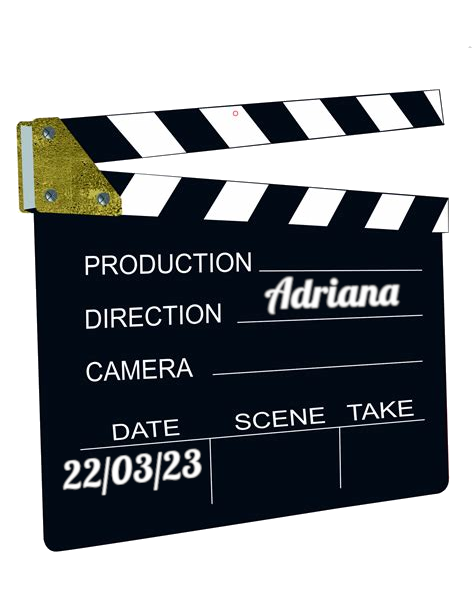
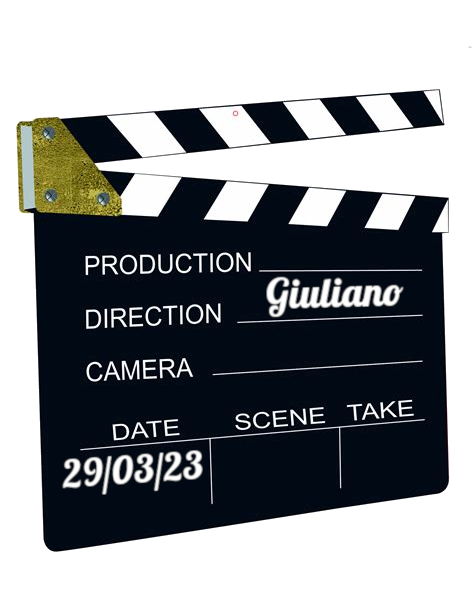
Merc 29 marzo - Giuliano - Stella Cadente

Changed region(s): [[0.5612, 0.4332, 0.8565, 0.5261], [0.1181, 0.7117, 0.443, 0.8046]]

diff --git a/index.html b/index.html
@@ -34,10 +34,10 @@
 
 <br /><br />
 
-<h1>Mercoled&igrave; 22 marzo 2023</h1>
+<h1>Mercoled&igrave; 29 marzo 2023</h1>
 <h2>Alle 20:30 in Via Nizza, 72</h2>
 <img src="img/ciak.png" class="locandina"/>
-<h2>Tema: <i>Stella cadente</i> - Selezionatrice: <i>Adriana</i></h2>
+<h2>Tema: <i>Stella cadente</i> - Selezionatore: <i>Giuliano</i></h2>
 
 <br /><br />
 
@@ -45,14 +45,14 @@
 
 <br /><br />
 
-<h1>Mercoled&igrave; 15 marzo 2023</h1>
+<h1>Mercoled&igrave; 22 marzo 2023</h1>
 <p class="mtitle">
-<a href="https://www.imdb.com/title/tt0125664" target="_blank">Man on the Moon</a>
+<a href="https://www.imdb.com/title/tt8893974" target="_blank">Passing</a>
 </p>
 
-<img src="https://image.tmdb.org/t/p/w500/yH7qMy0hTkZRjnrU33avW7qIocR.jpg" class="locandina"/>
+<img src="https://image.tmdb.org/t/p/w500/kZaNZbqRzO5iTJjGwTojMLCFUEk.jpg" class="locandina"/>
 
-<h2>Tema: <i>Stella cadente</i> - Selezionatore: <i>Vincenzo</i></h2>
+<h2>Tema: <i>Stella cadente</i> - Selezionatrice: <i>Adriana</i></h2>
 <br /><br />
 
 <hr width="90%">

diff --git a/movieslist.html b/movieslist.html
@@ -29,6 +29,17 @@ Rassegnamoci, Cineforum a Programma Variabile - Elenco Film
   </thead>
   <tbody>
     <tr>
+      <td>22-03-2023</td>
+      <td>Passing</td>
+      <td>Adriana</td>
+      <td>Stella cadente</td>
+      <td>2021</td>
+      <td>Rebecca Hall</td>
+      <td>99</td>
+      <td>CA; GB; US</td>
+      <td><a href="https://www.imdb.com/title/tt8893974" target="_blank">https://www.imdb.com/title/tt8893974</a></td>
+    </tr>
+    <tr>
       <td>15-Mar-2023</td>
       <td>Man on the Moon</td>
       <td>Vincenzo</td>
